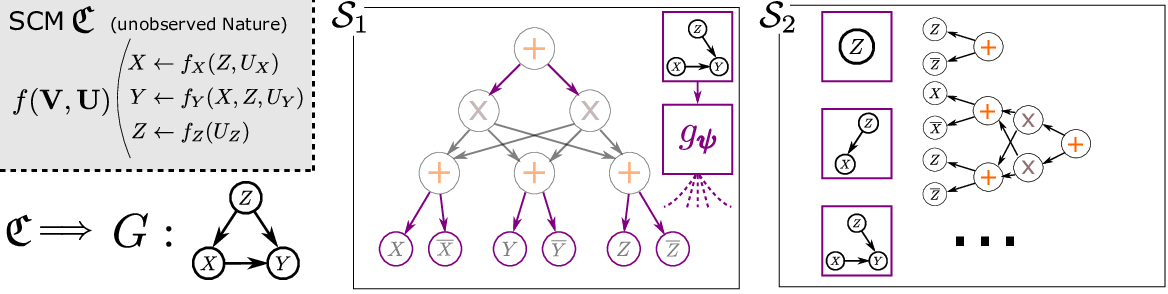
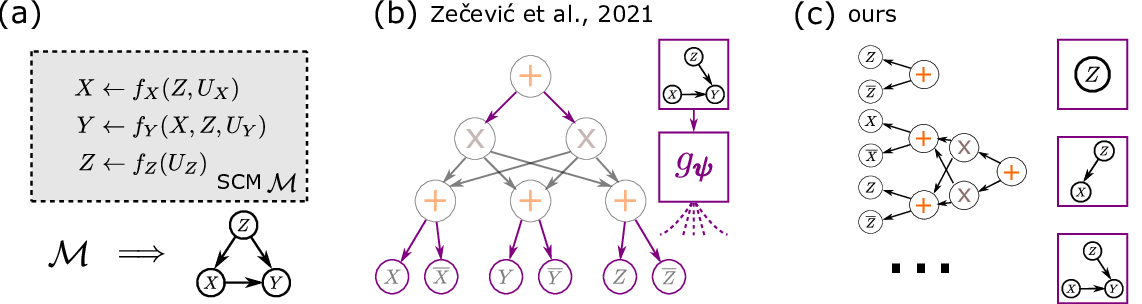
Accepted to TMLR 2023

Changed region(s): [[0.0, 0.0, 1.0, 1.0], [0.9194, 0.1224, 1.0, 0.3673], [0.7968, 0.7959, 0.8888, 0.8265]]

diff --git a/README.md b/README.md
@@ -1,10 +1,8 @@
-### Official Code for TMLR 2023 Submission on Causal Inference
+### Not All Causal Inference is the Same [Accepted to TMLR 2023]
 
-Official code repository for the corresponding paper.
+Official code repository for reproducing the empirical section of the paper: "7.1 ‘Bonus:’ An Easy Solution to Speeding Up Mechanism Inference in SCM".
 
-Contains a partial re-implementation of [Xia et al. 2021](https://arxiv.org/abs/2107.00793) (since their code base as of writing is not yet public).
-
-![](media/thumbnail.png)
+![Thumbnail of Figure 3 from Paper](media/thumbnail.png)
 
 ---
 
@@ -12,4 +10,4 @@ Contains a partial re-implementation of [Xia et al. 2021](https://arxiv.org/abs/
 
 * `aux` contains helper functions
 * `models` contains base functions like neural nets, sum-product networks but also the actual (T)NCM
-* `expX` reproduces an experiment as found in the paper
+* `expX.py` reproduces an experiment as found in the paper (e.g. `exp1.py` reproduces the results from Figure 6 of the main paper)
